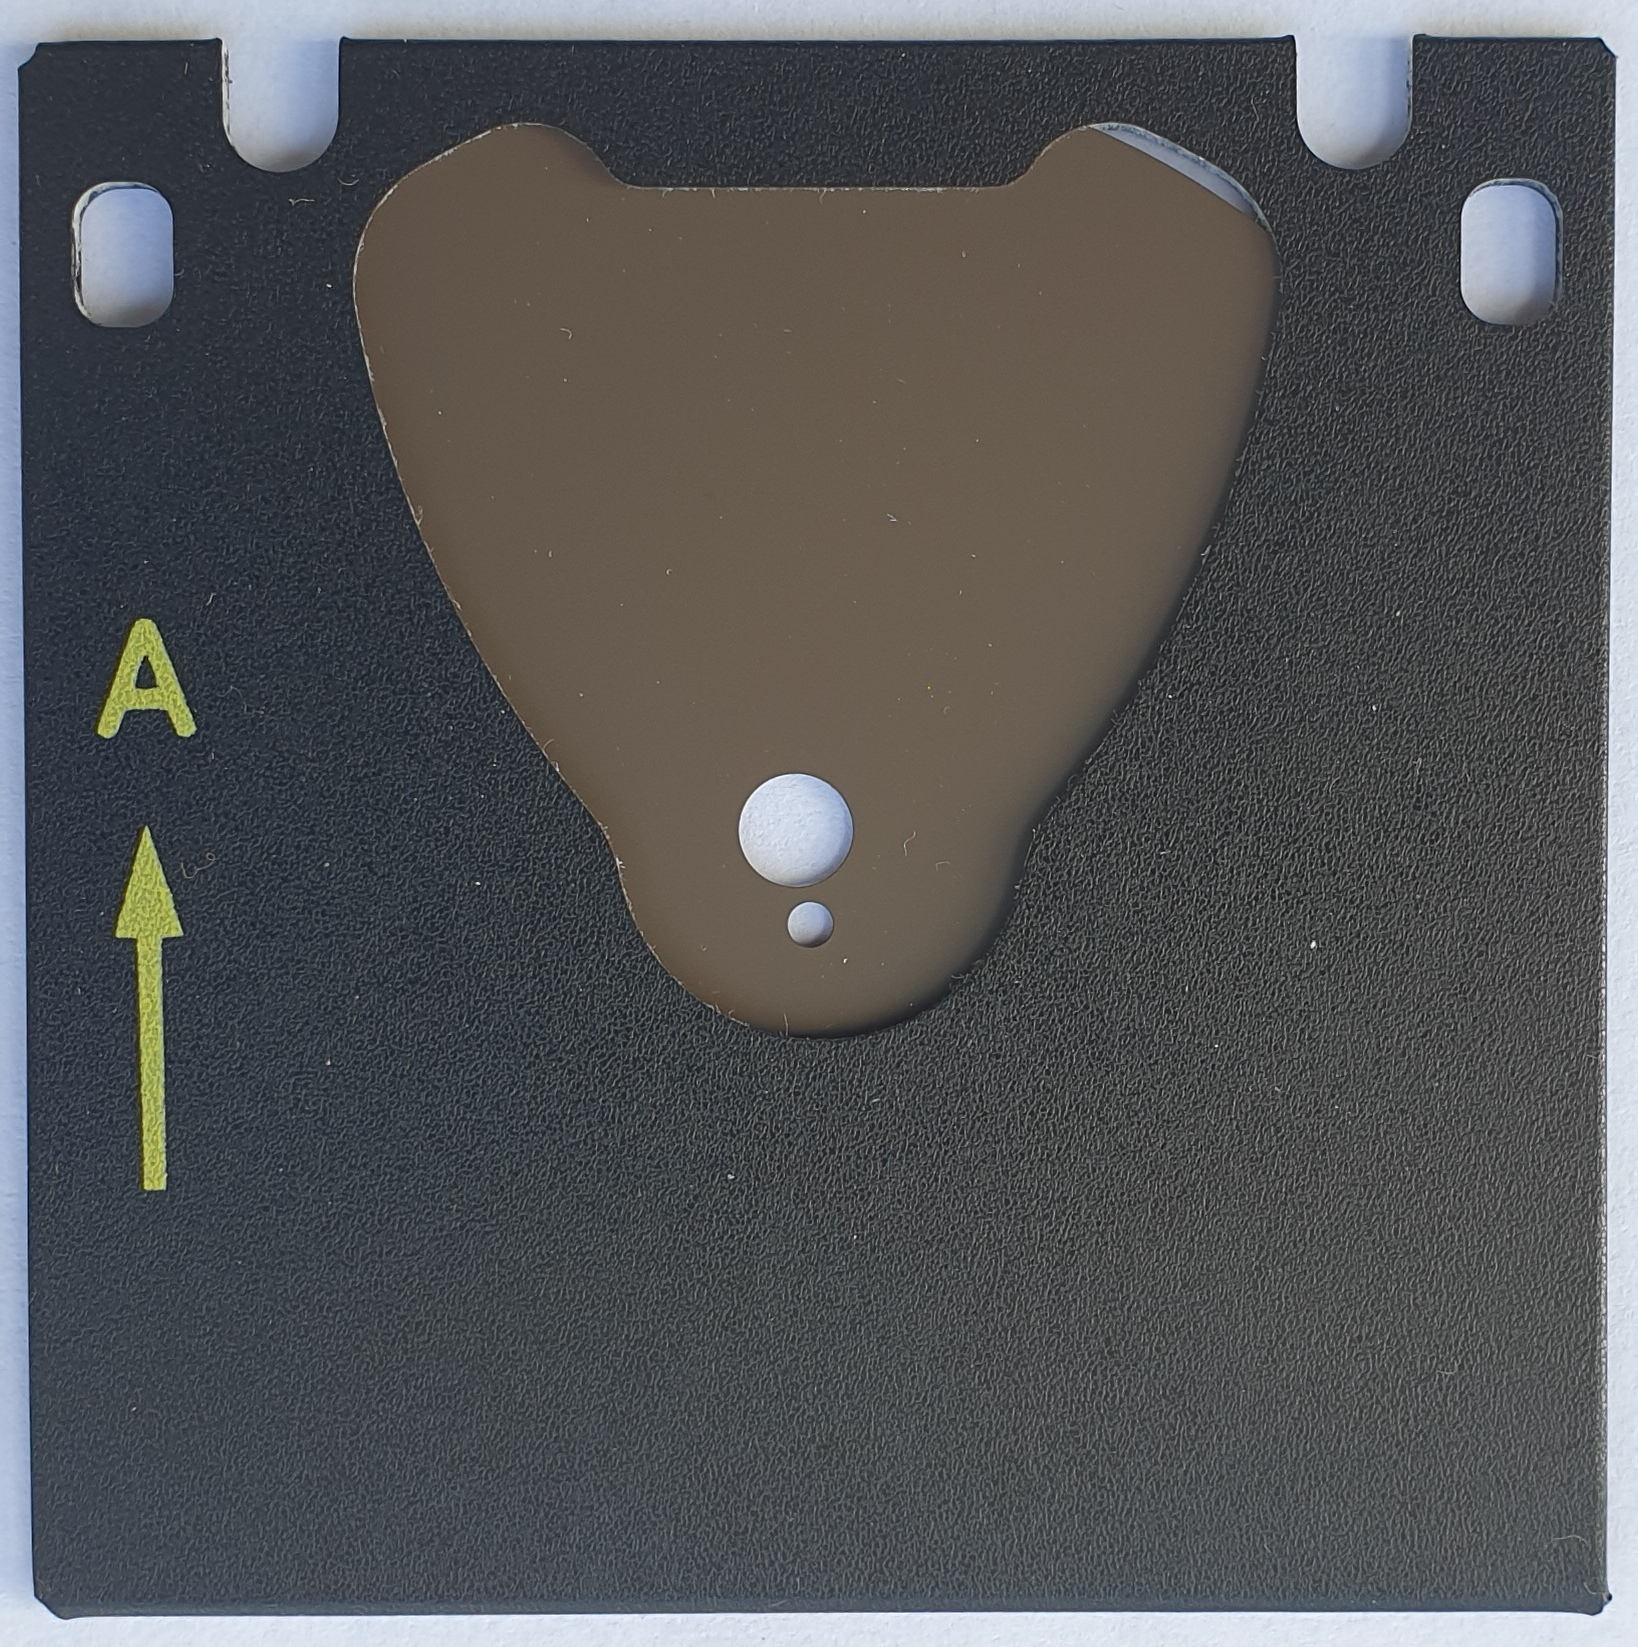
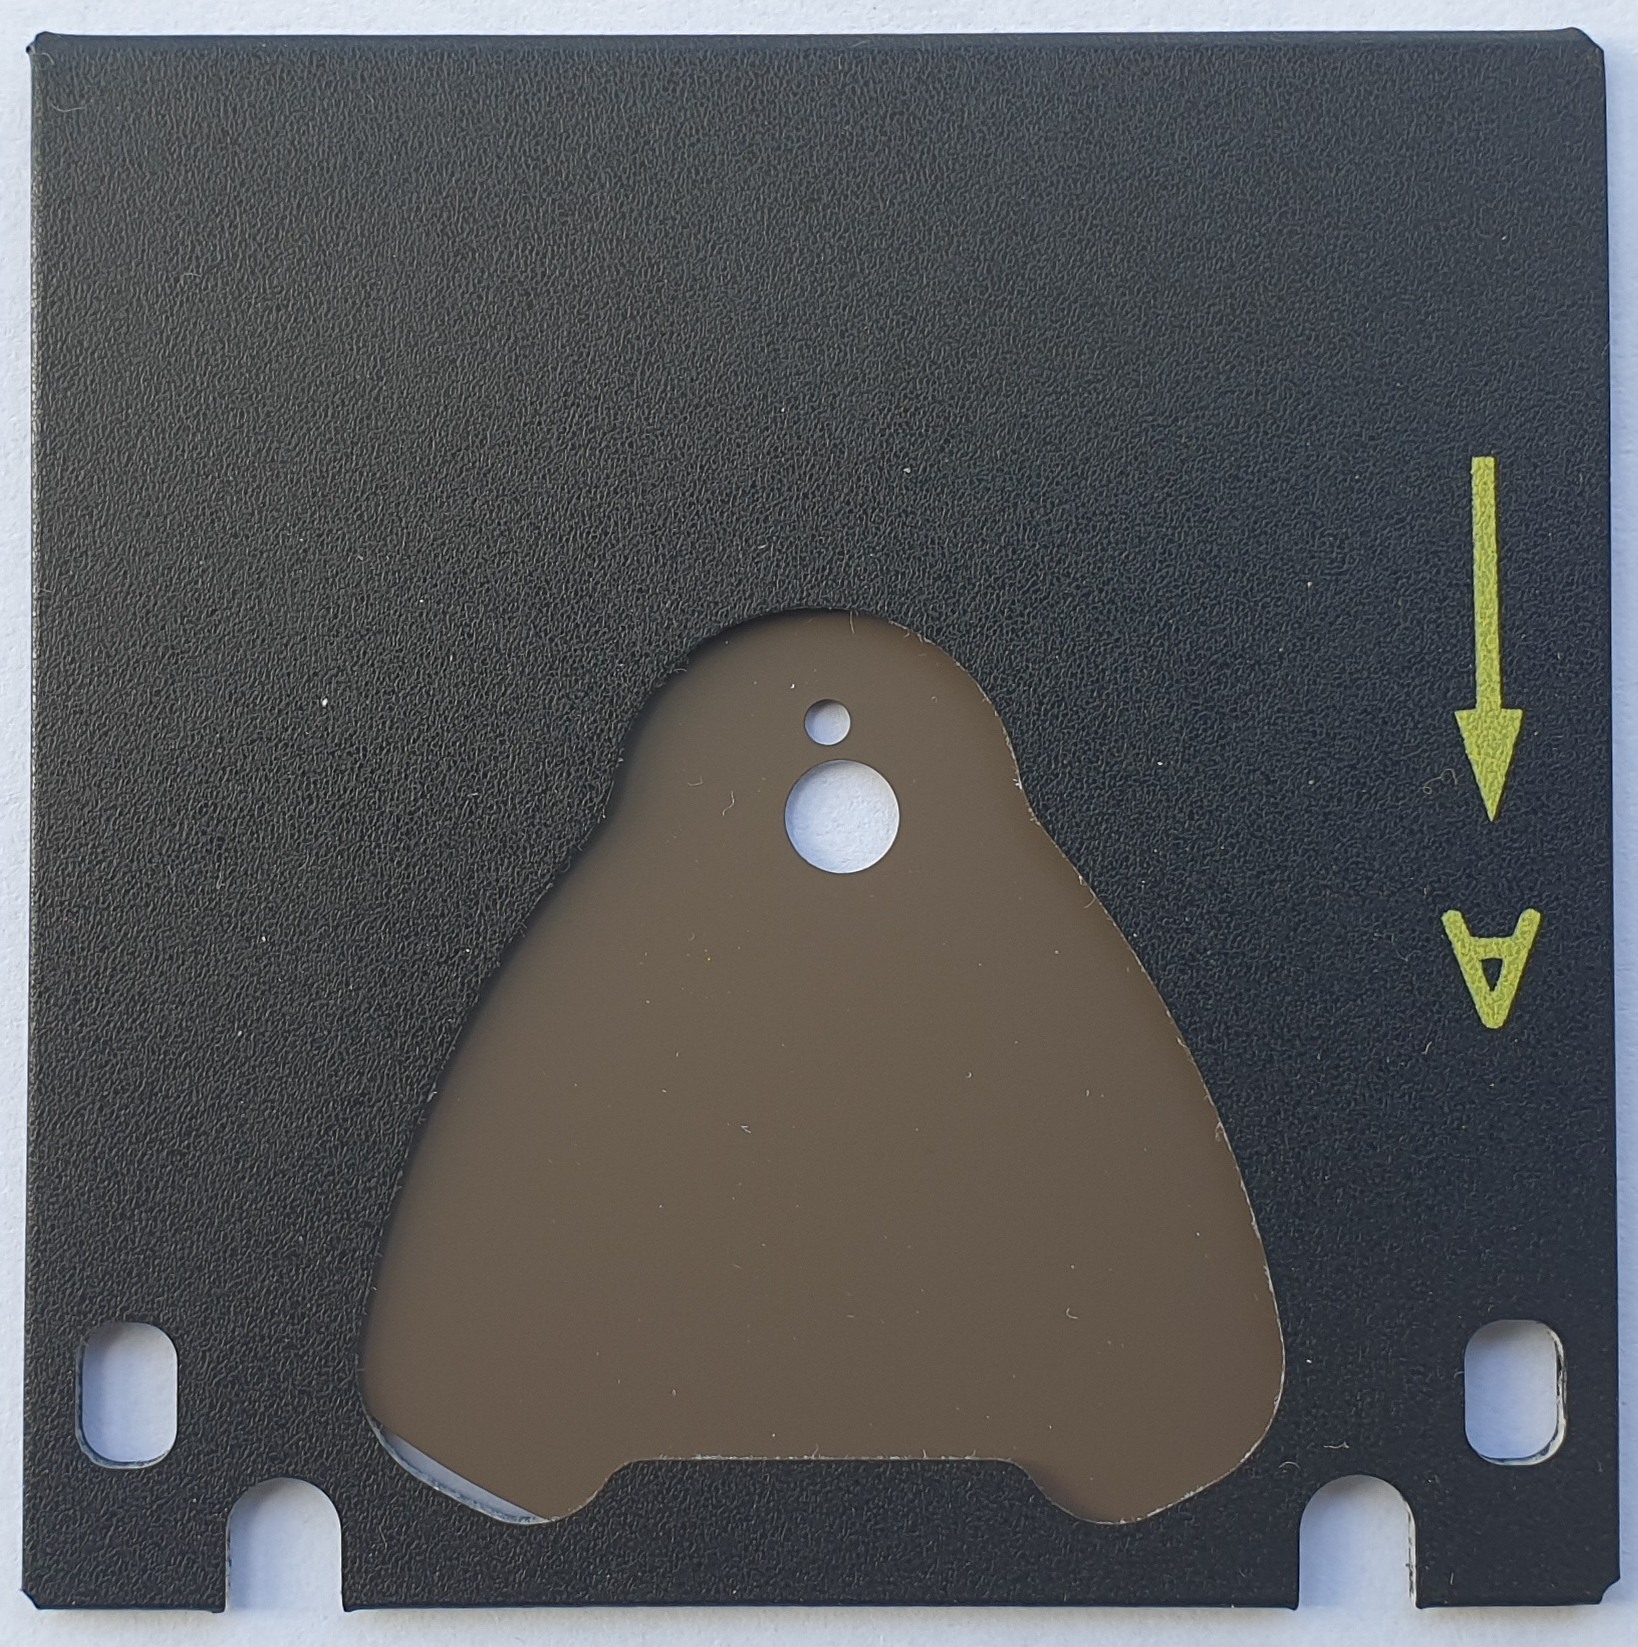
content update bug fixes

diff --git a/index.html b/index.html
@@ -16,7 +16,6 @@
     <header class="header" id="header">
          <div class="header-brand-section desktop-version">
             <img src="../grafiki/icox64.png" class="header-logo" width="64" height="64">
-            <nav class="header-button" data-url="../index.html"></nav>
             <div class="header-text-content">
                 <nav class="header-link" data-url="../index.html">Tapes & Cassettes</nav>
                 <p class="gallery-desc">A visual collection of obsolete and rare data storage media formats.</p>
@@ -24,8 +23,6 @@
         </div>
         <img src="../grafiki/icox64.png" class="header-logo-mobile" width="64" height="64">
     <div class="mobile-version">
-        
-        <nav class="header-button" data-url="../index.html"></nav>
         <div class="header-text-content">
             <nav class="header-link" data-url="../index.html">Tapes & Cassettes</nav>
             <p class="gallery-desc">A visual collection of obsolete and rare data storage media formats.</p>
@@ -137,11 +134,11 @@
                             <li><a href="../subpages/page19.html">Train Bahns H0</a></li>
                         </ul>
                     </li>
-                    <li class="dropdown">
-                        <a href="../subpages/page20.html">Wanted</a>
-                    </li>
+                    <a href="../subpages/page20.html" class="wanted-list">Wanted</a>
                 </ul>
+                
             </div>
+            
         </nav>
     <nav class="scroll-down"></nav>
     </header>    

diff --git a/style.css b/style.css
@@ -459,7 +459,7 @@ body.fade-out {
 
     .header-button {
         left: 10px;
-        top: 10vh;
+        top: 12vh;
     }
 
     .header-logo-mobile {
@@ -472,7 +472,7 @@ body.fade-out {
     } 
 
     .footer, .header{
-        height: 14vh !important;
+        height: 16vh !important;
         flex-direction: row;
     }
 
@@ -502,11 +502,11 @@ body.fade-out {
     }
 
     .scroll-down{
-        top: 10vh !important;
+        top: 12vh !important;
     }
 
     .scroll-up{
-        bottom: 10vh !important;
+        bottom: 12vh !important;
     }
 
     .gallery-desc {
@@ -663,7 +663,7 @@ body.fade-out {
 
     .header-button {
         left: 10px;
-        top: 9vh;
+        top: 11vh;
     }
 
     .header-logo-mobile {
@@ -676,7 +676,7 @@ body.fade-out {
     } 
 
     .footer, .header{
-        height: 14vh !important;
+        height: 16vh !important;
         flex-direction: row;
     }
 
@@ -706,11 +706,11 @@ body.fade-out {
     }
 
     .scroll-down{
-        top: 9vh !important;
+        top: 11vh !important;
     }
 
     .scroll-up{
-        bottom: 9vh !important;
+        bottom: 11vh !important;
     }
 
     .gallery-desc {
@@ -1155,7 +1155,7 @@ body.fade-out {
         position: relative;
     }
 
-    .nav-menu > li > a {
+    .nav-menu > li > a, .wanted-list {
         color: #000000;
         text-decoration: none;
         padding: 0px;
